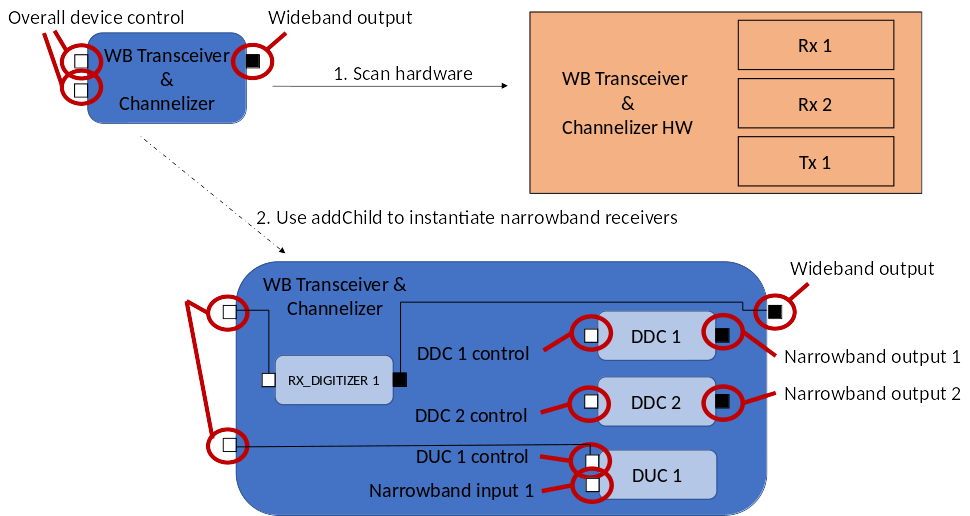
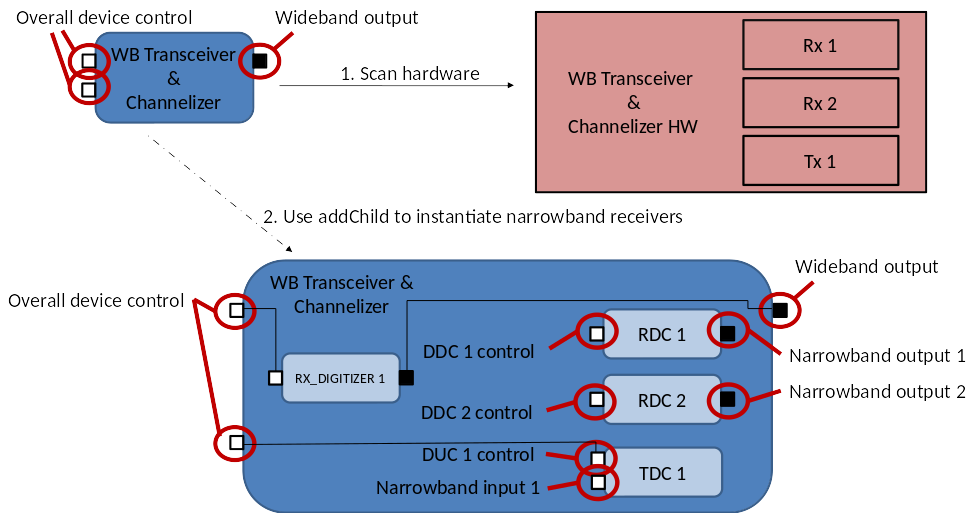
clarification on parent device

Changed region(s): [[0.0, 0.0, 0.9588, 0.4366], [0.0, 0.4678, 0.9897, 1.0], [0.2784, 0.9981, 0.3093, 1.0]]

diff --git a/fei_3.0/README.md b/fei_3.0/README.md
@@ -221,6 +221,11 @@ For example, in the case where the configuration of the underlying RF hardware i
 As seen in the example above, the underlying hardware is a transceiver with two receive channels and one transmit channel.
 Each devices is quasi-independent, sharing some common device control functionality, but each subsystem operating in a semi-independent fashion.
 
+Note: the parent device (WB Transceiver and Channelizer) is not an FEI device.
+This device is a custom device that aggregates the underlying devices; in this case RX_DIGITIZER, RDC, and TDC.
+The parent device delegates the allocations to the child devices and can promote either ports or properties of the different child devices.
+Because allocations are returned with a reference to the child device satisfying the allocation (more on this in the next section), the parent device can be a custom device provided for convenience.
+
 ## Allocations with feedback
 ---
 
